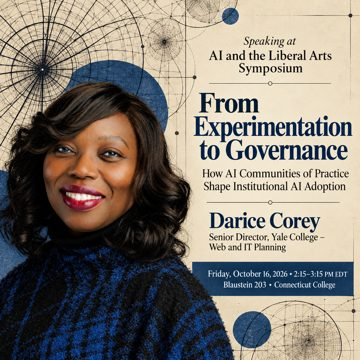
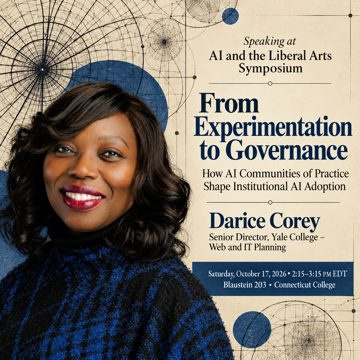
Speaking page: correct Connecticut College graphic date to Oct 17, 2026
Claude-Session: https://claude.ai/code/session_012t3sryHvNwEHi442N6FZHP

Changed region(s): [[0.5806, 0.7333, 0.9778, 0.7944]]

diff --git a/speaking.html b/speaking.html
@@ -132,7 +132,7 @@
           </div>
           <div class="engagement-item">
             <div class="engagement-year">2026</div>
-            <div class="engagement-body"><div class="engagement-thumbs"><a class="engagement-thumb" href="/images/events/speaking/conncoll-ai-liberal-arts-2026.jpg" target="_blank" rel="noopener" aria-label="View full event graphic: AI and the Liberal Arts Symposium event graphic for From Experimentation to Governance, October 16, 2026 (opens in new tab)"><img src="/images/events/speaking/conncoll-ai-liberal-arts-2026-thumb.jpg" alt="AI and the Liberal Arts Symposium event graphic for From Experimentation to Governance" loading="lazy" /></a></div><span class="engagement-role">Round Table Facilitator</span><h4>From Experimentation to Governance: How AI Communities of Practice Shape Institutional AI Adoption</h4><p>On October 17, 2026, I facilitated this 60-minute round table in New London, Connecticut, as part of the AI, the Liberal Arts, and the Future of Work track. Participants came from a range of roles and levels across higher education.</p></div>
+            <div class="engagement-body"><div class="engagement-thumbs"><a class="engagement-thumb" href="/images/events/speaking/conncoll-ai-liberal-arts-2026.jpg" target="_blank" rel="noopener" aria-label="View full event graphic: AI and the Liberal Arts Symposium event graphic for From Experimentation to Governance, October 17, 2026, October 16, 2026 (opens in new tab)"><img src="/images/events/speaking/conncoll-ai-liberal-arts-2026-thumb.jpg" alt="AI and the Liberal Arts Symposium event graphic for From Experimentation to Governance, October 17, 2026" loading="lazy" /></a></div><span class="engagement-role">Round Table Facilitator</span><h4>From Experimentation to Governance: How AI Communities of Practice Shape Institutional AI Adoption</h4><p>On October 17, 2026, I facilitated this 60-minute round table in New London, Connecticut, as part of the AI, the Liberal Arts, and the Future of Work track. Participants came from a range of roles and levels across higher education.</p></div>
             <div class="engagement-venue">Second Annual AI and the Liberal Arts Symposium, Connecticut College</div>
           </div>
           <div class="engagement-item">
